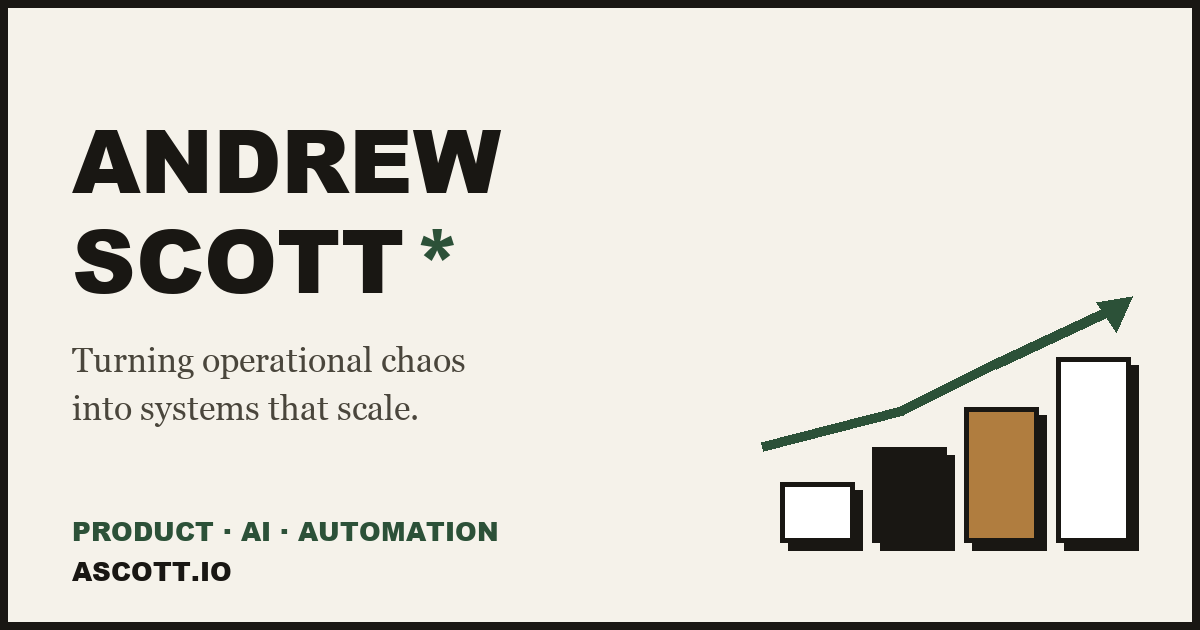
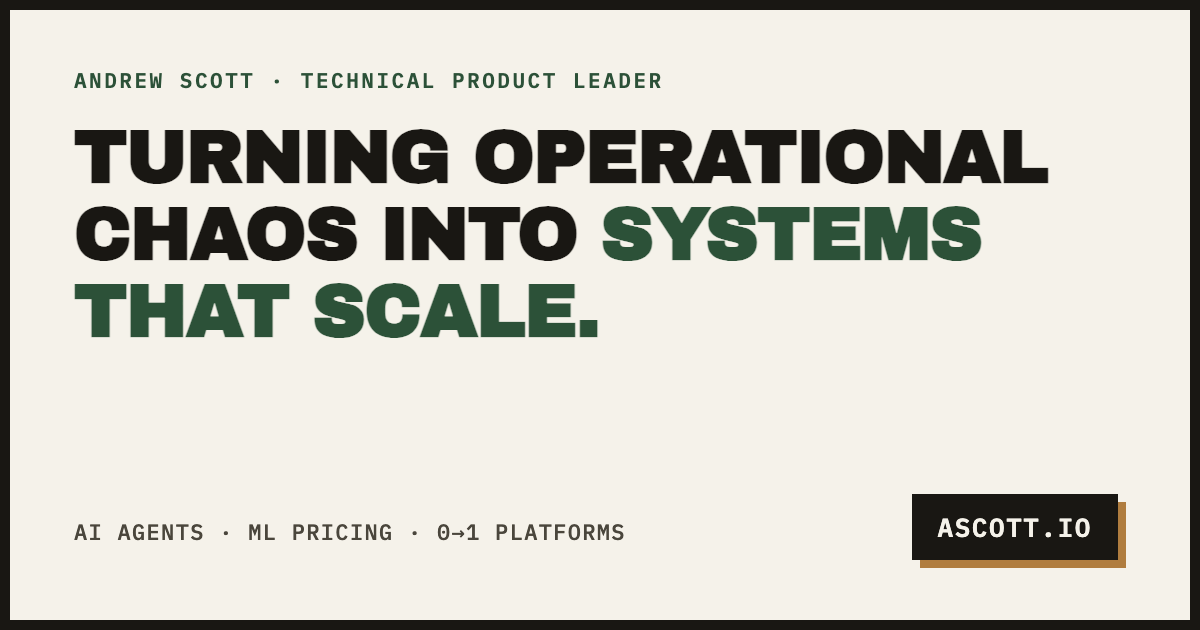
Replace og-image with type-only card matching the site design system

diff --git a/index.html b/index.html
@@ -15,7 +15,7 @@
     <meta property="og:type" content="website" />
     <meta property="og:title" content="Andrew Scott" />
     <meta property="og:description" content="Turning operational chaos into systems that scale. AI, automation, and product at scale. Senior Technical Product Manager at Arrive Logistics." />
-    <meta property="og:image" content="https://ascott.io/og-image.png?v=2" />
+    <meta property="og:image" content="https://ascott.io/og-image.png?v=3" />
     <meta property="og:image:width" content="1200" />
     <meta property="og:image:height" content="630" />
     <meta property="og:image:type" content="image/png" />
@@ -25,7 +25,7 @@
     <meta name="twitter:card" content="summary_large_image" />
     <meta name="twitter:title" content="Andrew Scott" />
     <meta name="twitter:description" content="Turning operational chaos into systems that scale. AI, automation, and product at scale. Senior Technical PM at Arrive Logistics." />
-    <meta name="twitter:image" content="https://ascott.io/og-image.png?v=2" />
+    <meta name="twitter:image" content="https://ascott.io/og-image.png?v=3" />
   </head>
   <body>
     <div id="root"></div>
